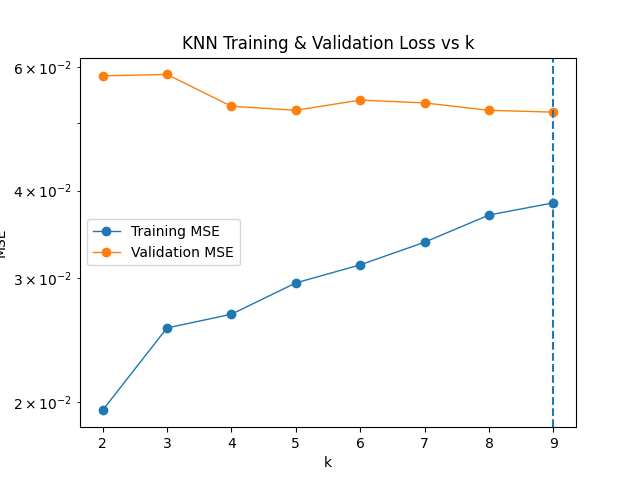
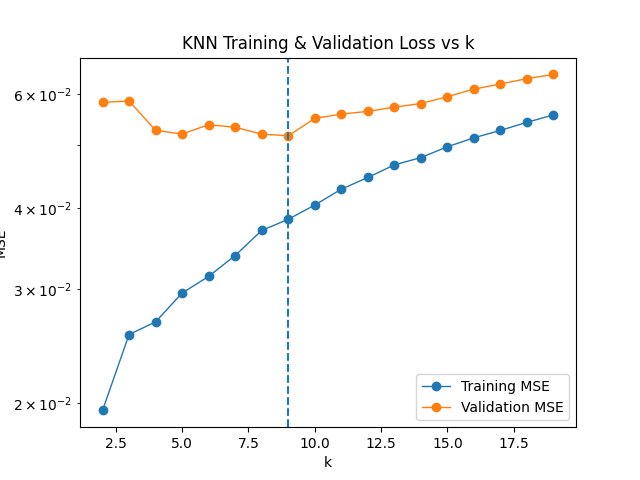
READ ME created

diff --git a/P1/P1.py b/P1/P1.py
@@ -33,32 +33,43 @@ RGB = np.logical_and(RGB, labels['LOGG'] > 0.0)
 RGB = np.logical_and(RGB, labels['H'] < 10.5)
 RGB_labels = labels[RGB] # selects labels that meet criteria
 
-# Making train, validation, and test data sets:
-rng = np.random.default_rng(17) # arbitrary seed to shuffle indices of RGB dataset (DO NOT CHANGE)
-N_RGB = len(RGB_labels) # number of labels that meet criteria
-N_train, N_valid, N_test = 1024, 256, 512 # number of each type of data
-I = rng.permutation(N_RGB) # shuffling post-criteria dataset
+#-----------------------
+def data(rng_seed: int):
+    """
+    Data shuffler/mask/normalizer.
+    ------ Params ----------------
+    rng_seed: int
+        seed to shuffle the data for MLP HW part 2
+    ------ Returns -------------------------------
+    
+    """
+    # Making train, validation, and test data sets:
+    rng = np.random.default_rng(rng_seed) # arbitrary seed to shuffle indices of RGB dataset (DO NOT CHANGE)
+    N_RGB = len(RGB_labels) # number of labels that meet criteria
+    N_train, N_valid, N_test = 1024, 256, 512 # number of each type of data
+    I = rng.permutation(N_RGB) # shuffling post-criteria dataset
 
-# Assigning the shuffled indices to each type of data:
-I_train = I[0:N_train] 
-I_valid = I[N_train:N_train+N_valid] 
-I_test = I[N_train+N_valid:N_train+N_valid+N_test]
+    # Assigning the shuffled indices to each type of data:
+    I_train = I[0:N_train] 
+    I_valid = I[N_train:N_train+N_valid] 
+    I_test = I[N_train+N_valid:N_train+N_valid+N_test]
 
-# Train, validate, test: 
-train_labels = RGB_labels[I_train]
-valid_labels = RGB_labels[I_valid]
-test_labels = RGB_labels[I_test]
+    # Train, validate, test: 
+    train_labels = RGB_labels[I_train]
+    valid_labels = RGB_labels[I_valid]
+    test_labels = RGB_labels[I_test]
 
-# Downloading features: 
-train_features = np.load('./data/train_features.npy')
-valid_features = np.load('./data/valid_features.npy')
-test_features = np.load('./data/test_features.npy')
-# Normalizing/standardizing features:
-mu = train_features.mean(axis=0, keepdims=True)
-sig = train_features.std(axis=0, keepdims=True) + 1e-8
-train_features = (train_features - mu) / sig
-valid_features = (valid_features - mu) / sig
-test_features  = (test_features  - mu) / sig
+    # Downloading features: 
+    train_features = np.load('./data/train_features.npy')
+    valid_features = np.load('./data/valid_features.npy')
+    test_features = np.load('./data/test_features.npy')
+
+    # Normalizing/standardizing features:
+    mu = train_features.mean(axis=0, keepdims=True)
+    sig = train_features.std(axis=0, keepdims=True) + 1e-8
+    train_features = (train_features - mu) / sig
+    valid_features = (valid_features - mu) / sig
+    test_features  = (test_features  - mu) / sig
 #-----------------------------------------------------------------------------------------------------------------
 
 
@@ -181,7 +192,7 @@ test_loader = DataLoader(TensorDataset(x_test, y_test), batch_size=test_batch_si
 
 
 
-#------------------- TRAIN, VALIDATE, TEST NN FUNCTION -----------------------------------------------------------
+#------------------- TRAIN, VALIDATE, TEST FUNCTION -----------------------------------------------------------
 def TVT(            
         model,                    
         optimizer,                
@@ -332,6 +343,7 @@ def TVT(
     plt.plot([mn, mx], [mn, mx])
     plt.savefig(f'./P1/{model_name}_parity.png')
     print(f'{model_name} average test loss is {loss_test:.5}')
+    #---------------------------------------------------------
 #----------------------------------------------------------------------------------------------------------------
 
 
@@ -344,7 +356,54 @@ def TVT(
 
 
 #------------------- LINEAR REGRESSION ---------------------------------------------------------------------------
-def linear_regression(epochs, delta_threshold, learning_rate):
+def linear_regression(epochs: int, delta_threshold: float, learning_rate: float, batch_fractions: list[float]):
+    """
+    Linear Regression ML Model.
+    ------ Params -------------
+    epochs: int
+        number of epochs to run for each batch
+    delta_threshold: float
+        change in delta_loss that must be met to stop
+    learning_rate: float
+        scaling for dL/dw in optimization (w += learning_rate * dL/dw)
+    batch_fraction: list[float]
+        fraction of total data in each batch for [train, validate, test] data
+    """
+
+    #-----------------------------
+    # Error conditions & defaults:
+    if len(batch_fractions) != 3:
+        raise ValueError('batch_fractions must contain train, validate, and test fractions')
+    for frac in batch_fractions:
+        if frac < 0:
+            raise ValueError('Values in batch_fractions must be positive')
+        if np.abs(frac) > 1:
+            raise ValueError('Values in batch_fractions must be between 0 and 1')
+    #----------------------------------------------------------------------------
+
+
+    #-----------
+    # Data prep:
+    x_train = torch.tensor(train_features, dtype=torch.float32) # (N, d)
+    y_np = np.array(train_labels["LOGG"], dtype=np.float32)  # forces native float32
+    y_train = torch.from_numpy(y_np).view(-1, 1)
+    train_batch_size = int(N_train * batch_fractions[0])
+    train_loader = DataLoader(TensorDataset(x_train, y_train), batch_size=train_batch_size, shuffle=True) 
+        
+    x_valid = torch.tensor(valid_features, dtype=torch.float32) # (N, d)
+    y_np = np.array(valid_labels["LOGG"], dtype=np.float32)  # forces native float32
+    y_valid = torch.from_numpy(y_np).view(-1, 1)
+    valid_batch_size = int(N_valid * batch_fractions[1])
+    valid_loader = DataLoader(TensorDataset(x_valid, y_valid), batch_size=valid_batch_size, shuffle=False)  
+        
+    x_test = torch.tensor(test_features, dtype=torch.float32) # (N, d)
+    y_np = np.array(test_labels["LOGG"], dtype=np.float32)  # forces native float32
+    y_test = torch.from_numpy(y_np).view(-1, 1)
+    test_batch_size = int(N_test * batch_fractions[2])
+    test_loader = DataLoader(TensorDataset(x_test, y_test), batch_size=test_batch_size, shuffle=False)  
+    #-------------------------------------------------------------------------------------------------
+    
+
     #-------------------------------------------------
     # Generating linear regression class from PyTorch:
     class LinearRegression(nn.Module):
@@ -357,10 +416,14 @@ def linear_regression(epochs, delta_threshold, learning_rate):
             return self.lin(x)
     #-------------------------
 
+
     #-----------------
     # Regression prep:
     model = LinearRegression(input_dim=x_train.shape[1], output_dim=1)
+    #-----------------------------------------------------------------
 
+
+    #-----------------------
     # Train, Validate, Test:
     TVT(
         model = model,
@@ -372,6 +435,7 @@ def linear_regression(epochs, delta_threshold, learning_rate):
         valid_loader = valid_loader,
         test_loader = test_loader
     )
+    #----------------------------
 #----------------------------------------------------------------------------------------------------------------
 
     
@@ -384,7 +448,52 @@ def linear_regression(epochs, delta_threshold, learning_rate):
 
 
 #------------------- MULTI-LAYER PERCEPTRON ---------------------------------------------------------------------
-def MLP(epochs, delta_threshold, learning_rate):
+def MLP(
+    epochs: int, 
+    delta_threshold: float, 
+    learning_rate: float, 
+    batch_fractions: list[float],
+    dim_hidden: list[int],
+    activation: nn.Module | None = None
+    ):
+    """
+    Multi-layer perceptron ML model.
+    ------ Params ------------------
+    epochs: int
+        number of epochs to run for each batch
+    delta_threshold: float
+        change in delta_loss that must be met to stop
+    learning_rate: float
+        scaling for dL/dw in optimization (w += learning_rate * dL/dw)
+    batch_fractions: list[float]
+        fraction of total data in each batch for [train, validate, test] data
+    dim_hidden: list[int]
+        number of nodes in each hidden layer
+    activation: PyTorch module
+        activation function to be used
+    """
+    #-----------
+    # Data prep:
+    x_train = torch.tensor(train_features, dtype=torch.float32) # (N, d)
+    y_np = np.array(train_labels["LOGG"], dtype=np.float32)  # forces native float32
+    y_train = torch.from_numpy(y_np).view(-1, 1)
+    train_batch_size = int(N_train * batch_fractions[0])
+    train_loader = DataLoader(TensorDataset(x_train, y_train), batch_size=train_batch_size, shuffle=True) 
+        
+    x_valid = torch.tensor(valid_features, dtype=torch.float32) # (N, d)
+    y_np = np.array(valid_labels["LOGG"], dtype=np.float32)  # forces native float32
+    y_valid = torch.from_numpy(y_np).view(-1, 1)
+    valid_batch_size = int(N_valid * batch_fractions[1])
+    valid_loader = DataLoader(TensorDataset(x_valid, y_valid), batch_size=valid_batch_size, shuffle=False)  
+        
+    x_test = torch.tensor(test_features, dtype=torch.float32) # (N, d)
+    y_np = np.array(test_labels["LOGG"], dtype=np.float32)  # forces native float32
+    y_test = torch.from_numpy(y_np).view(-1, 1)
+    test_batch_size = int(N_test * batch_fractions[2])
+    test_loader = DataLoader(TensorDataset(x_test, y_test), batch_size=test_batch_size, shuffle=False)  
+    #-------------------------------------------------------------------------------------------------
+
+    
     #----------------------
     # Generating MLP class:
     class MultiLayerPerceptron(nn.Module):
@@ -428,9 +537,13 @@ def MLP(epochs, delta_threshold, learning_rate):
     #-----------------
     # Regression Prep:
     dim_input = x_train.shape[1] # feature dimension = dimension of input layer
+    dim_hidden = dim_hidden
     dim_output = 1 # label dimension = dimension of output layer
-    model = MultiLayerPerceptron([dim_input, 128, 64, dim_output], activation=nn.ReLU())
-    
+    model = MultiLayerPerceptron([dim_input, dim_hidden, dim_output], activation=activation)
+    #-----------------------------------------------------------------------------------
+
+
+    #-----------------------
     # Train, Validate, Test:
     TVT(
         model = model,
@@ -442,6 +555,7 @@ def MLP(epochs, delta_threshold, learning_rate):
         valid_loader = valid_loader,
         test_loader = test_loader
     )
+    #----------------------------
 #----------------------------------------------------------------------------------------------------------------
 
 
@@ -458,8 +572,8 @@ def MLP(epochs, delta_threshold, learning_rate):
 #linear_regression(400, 1e-3, 1e-4)
     
 # Running K-nearest-neighbors ML:
-knn_results = KNN(np.arange(2,10,1)) # storing k_opt (from training) and validation loss
-print(f'KNN optimal k = {knn_results[0]}, validation loss = {knn_results[1]:.5g}')
+#knn_results = KNN(np.arange(2,25,1)) # storing k_opt (from training) and validation loss
+#print(f'KNN optimal k = {knn_results[0]}, validation loss = {knn_results[1]:.5g}')
   
 # Running multi-layer perceptron ML:
 #MLP(400, 128, 1e-4)
